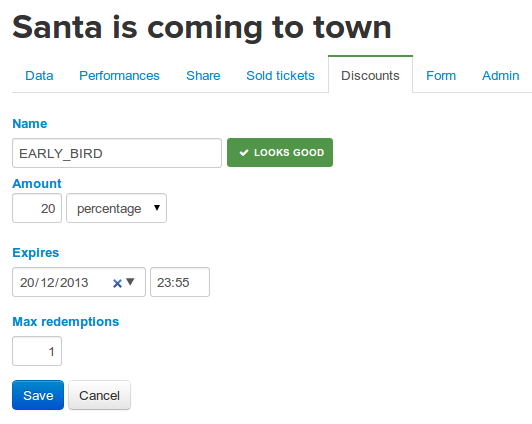
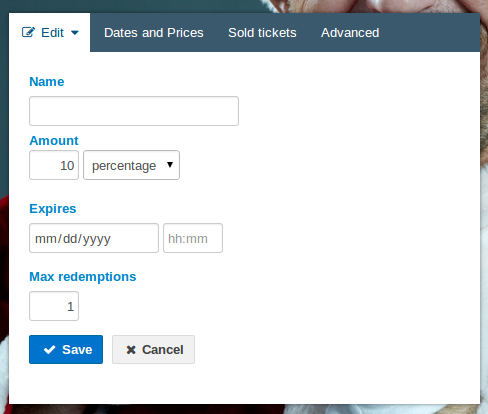
Updated pages "share" and "discounts" with new screenshots and updated texts.

diff --git a/_posts/es/events/2012-05-20-share.html b/_posts/es/events/2012-05-20-share.html
@@ -1,0 +1,32 @@
+---
+layout: default_es
+title: Compartir tu evento
+categories: [es, events]
+---
+
+<p>Nos esforzamos especialmente para ayudarte a hacer públicos tus eventos. Aquí vamos a mencionar algunas de las herramientas que tenemos para esto.
+
+<h2>Web Crawlers y SEO</h2>
+<div class="row-fluid">
+    <div class="span6">
+        <p>En Koliseo trabajamos duro para mejorar tu posicionamiento en buscadores como Google o Bing. Presentamos tu evento usando <i><a href="http://schema.org/Event">schema formats</a></i> que son fácilmente entendibles e indexables ppor los buscadores, de modo que en lugar de ver una página web abstracta los buscadores pueden entender un evento con foto, descripción y fechas. Esta misma tecnología es la que hace tus entradas <a href="http://blog.koliseo.com/actions-in-your-gmail-inbox/">más visibles en la bandeja de entrada del correo</a>.
+        </p>
+        <p>Para mejorar tu SEO te damos la posibilidad de <b>reutilizar la misma URL para múltiples fechas</b>. Sólo añade las nuevas fechas y <a href="http://blog.koliseo.com/seo/">actualiza la descripción del evento</a> para incluir cambios en el nuevo año. Utilizar la misma URL hace tu PageRank más fuerte con los años, en lugar de tener los enlaces nuevos y antiguos compitiendo por la primera posición en tu página de resultados de búsqueda.
+        </p>
+        <p><b>Todos tus eventos son público por defecto</b>. Si quieres ocultar un evento de los resultados de búsqueda, basta con ir a tu pestaña <code>Avanzado</code> y hacer clic en <code>Marcar como no listable</code>. Los eventos con este flag activo no se mostrarán en la página de resultados de Google ni en tu página de usuario, aunque los usuarios que tengan el enlace seguirán pudiendo acceder. Mientras estés en la pestaña <code>Avanzado</code>, sería buena idea cambiar la URL a algo corto y fácil de recordar.</p>
+    </div>
+    <div class="span6">
+        <a href="/img/events/advanced.png" class="himg" target="img"><img class="himg" src="/img/events/advanced.png"></a>
+    </div>
+</div>
+
+<h2>Twitter y Facebook</h2>
+<div class="row-fluid">
+    <div class="span6">
+        <p>También extendemos nuestro uso de los <i>schemas</i> a algunas redes sociales como Facebook y Twitter. Compartir un evento incluye también un pequeño extracto con la foto y la descripción.
+    </div>
+    <div class="span6">
+        <a href="https://twitter.com/decharlas/status/453122157217087488" target="img"><img src="http://blog.koliseo.com/content/images/2014/Apr/Screenshot-from-2014-04-11-17-34-58.png" class="himg"></a>
+    </div>
+</div>
+

diff --git a/_posts/es/events/2012-05-22-discounts.html b/_posts/es/events/2012-05-22-discounts.html
@@ -1,0 +1,51 @@
+---
+layout: default_es
+title: Descuentos
+categories: [es, events]
+---
+
+<p>Puedes permitir a tus usuarios que se beneficien de descuentos sobre el precio normal de la entrada. Sólo hay que seleccionar <code>Editar &raquo; Descuentos</code>.
+
+<h2>Editar un descuento</h2>
+
+<div class="row-fluid">
+  <div class="span6">
+    <p>Cada descuento debe especificar una serie de campos:
+    </p>
+    <ul>
+      <li><b>Nombre</b>: el identificador de este descuento. Los usuarios tienen que conocer este campo para usar el descuento, así que es preferible usar un nombre corto y fácil de recordar - o largo y difícil de adivinar, para cupones de un solo uso.
+      <li><b>Fecha de caducidad</b>: Es la fecha en la cual el descuento deja de estar operativo.  Puede dejarse vacío si el descuento nunca expira.
+      <li><b>Número de usos</b>: Número máximo de veces que el descuento puede utilizarse. Puede introducirse <code>1</code> para cupones de un solo uso.
+      <li><b>Importe</b>: El importe del descuento, que tiene un significado diferente dependiendo del tipo de descuento seleccionado.
+    </ul>
+
+    <table class="table table-bordered">
+      <thead>
+        <tr><th>Tipo</th><th>Descripción</th><th>Ejemplo</th></tr>
+      </thead>
+      <tbody>
+        <tr><td>Porcentaje</td><td>Un porcentaje que será restado del valor nominal del precio de la entrada.</td><td>"10" significa "10% sobre el valor de la entrada".</td></tr>
+        <tr><td>Fijo</td><td>Cantidad fija a descontar del importe total.</td><td>"10" significa "10€", si el evento está en euros.</td></tr>
+      </tbody>
+    </table>
+
+    <p>La comisión aplicada por Koliseo se calculará después de aplicarse el descuento. Si el descuento es superior al valor de la entrada, el precio final será cero y Koliseo no aplicará ninguna comisión.</p>
+  </div>
+  <div class="span6">
+    <img src="/img/events/discounts.png" class="himg">
+  </div>
+</div>
+
+
+<h2>Usar un descuento</h2>
+
+<div class="row-fluid">
+  <div class="span6">
+    <a href="/img/events/use-discount.png" target="img"><img src="/img/events/use-discount.png" class="himg"></a>
+  </div>
+  <div class="span6">
+    <p>Una vez el descuento está listo, accede a la página de compra haciendo clic en el botón <code>Atrás</code> y haz clic en el enlace para introducir el código descuento. Si el código es correcto, el descuento se deducirá del precio de la entrada automáticamente.</p>
+  </div>
+</div>
+
+

diff --git a/_posts/en/events/2012-05-20-share.html b/_posts/en/events/2012-05-20-share.html
@@ -1,0 +1,31 @@
+---
+layout: default_en
+title: Sharing your event
+categories: [en, events]
+---
+
+<p>We walk the extra mile to help you get the word out for your events. Here we are going to mention some of the tools we have to do that.
+
+<h2>Web Crawlers and SEO</h2>
+<div class="row-fluid">
+    <div class="span6">
+        <p>At Koliseo we work hard to improve your positioning in web crawlers like Google or Bing. We present your event using <a href="http://schema.org/Event">schema formats</a> that can be easily crawled and indexed by search engines, so instead of seeing an abstract web page they can go further and understand an event with photo, description and dates. This same technology also makes your tickets more visible in your <a href="http://blog.koliseo.com/actions-in-your-gmail-inbox/">mail inbox</a>.
+        </p>
+        <p>To help your SEO we give you the possibility to <b>reuse the same URL for multiple dates</b>. Just add the new dates and update <a href="http://blog.koliseo.com/seo/">the event description</a> to include updates for the new year. Using the same URL makes your PageRank stronger with time, instead of having your old and new links competing internally to get the first position in your search results page.
+        </p>
+        <p><b>All your events are public by default</b>. If you want to hide your event from public search results, just go to your <code>Advanced</code> tab and click <code>Mark as unlisted</code>. Events with this flag activated will not be displayed in Google search or your user profile page, but users that have the link will still be able to view it. While you are at the <code>Advanced</code> tab, it would be a good idea to change the event URL to something short and easy to remember.</p>
+    </div>
+    <div class="span6">
+        <a href="/img/events/advanced.png" class="himg" target="img"><img class="himg" src="/img/events/advanced.png"></a>
+    </div>
+</div>
+
+<h2>Twitter and Facebook</h2>
+<div class="row-fluid">
+    <div class="span6">
+        <p>We are also extending our schema support to some social networks like Facebook and Twitter. Sharing an event will include a small excerpt with the photo and description in your timeline.
+    </div>
+    <div class="span6">
+        <a href="https://twitter.com/decharlas/status/453122157217087488" target="img"><img src="http://blog.koliseo.com/content/images/2014/Apr/Screenshot-from-2014-04-11-17-34-58.png" class="himg"></a>
+    </div>
+</div>

diff --git a/_posts/en/events/2012-05-22-discounts.html b/_posts/en/events/2012-05-22-discounts.html
@@ -1,0 +1,48 @@
+---
+layout: default_en
+title: Discounts
+categories: [en, events]
+---
+
+<p>You can get your users the benefit of discounts over the marked price of the ticket. Just select <code>Edit &raquo; Discounts</code> tab.
+
+<h2>Editing a discount</h2>
+
+<div class="row-fluid">
+  <div class="span6">
+    <p>Every discount must specify some fields:</p>
+    <ul>
+      <li><b>Name</b>: the identifier of this discount. Your contacts will have to know this name to be able to use this discount, so keep it short and easy to remember - or long and hard to guess, for single-use promotional codes.
+      <li><b>Expiration date</b>: The date when this discount will be no longer available. Leave empty if the discount does not expire.
+      <li><b>Max redemptions</b>: The maximum number of times this discount code can be redeemed. Set to 1 for single-use discount codes.
+      <li><b>Amount</b>: The amount of the discount, which has a different meaning depending on the selected discount type.
+    </ul>
+
+    <table class="table table-bordered">
+      <thead>
+        <tr><th>Type</th><th>Description</th><th>Example</th></tr>
+      </thead>
+      <tbody>
+        <tr><td>Percentage</td><td>A percentage that will be substracted from the ticket price.</td><td>"10" means "10% over the listed price".</td></tr>
+        <tr><td>Fixed</td><td>A fixed discount deduced from the purchase total. It is specified in the same currency used by the event.</td><td> "10" means "10 EUR", if the event uses euros.</td></tr>
+      </tbody>
+    </table>
+
+    <p>Any fee applied by Koliseo will be calculated after applying the discount. If the discount is greater than the ticket price, the total amount will be set to zero and no fee will be waived.</p>
+
+  </div>
+  <div class="span6">
+    <a href="/img/events/discounts.png" target="img"><img src="/img/events/discounts.png" class="himg"></a>
+  </div>
+</div>
+
+<h2>Using a discount</h2>
+
+<div class="row-fluid">
+  <div class="span6">
+    <a href="/img/events/use-discount.png" target="img"><img src="/img/events/use-discount.png" class="himg"></a>
+  </div>
+  <div class="span6">
+    <p>When your discount is ready click <code>Back</code> to go to the purchase form and click the link to introduce a promotional code. If the code is correct, the discount will be deduced automatically.</p>
+  </div>
+</div>

diff --git a/less/style.less b/less/style.less
@@ -51,3 +51,11 @@ h1, h2, h3 {
   margin-bottom: 10px;
   border-bottom: 1px solid #ececec;
 }
+
+// listas en el contenido de la página
+.container li {
+  margin-bottom: 10px;
+}
+.container ul {
+  margin-bottom: 20px;
+}

diff --git a/less/style.css b/less/style.css
@@ -43,3 +43,9 @@ h3 {
   margin-bottom: 10px;
   border-bottom: 1px solid #ececec;
 }
+.container li {
+  margin-bottom: 10px;
+}
+.container ul {
+  margin-bottom: 20px;
+}
